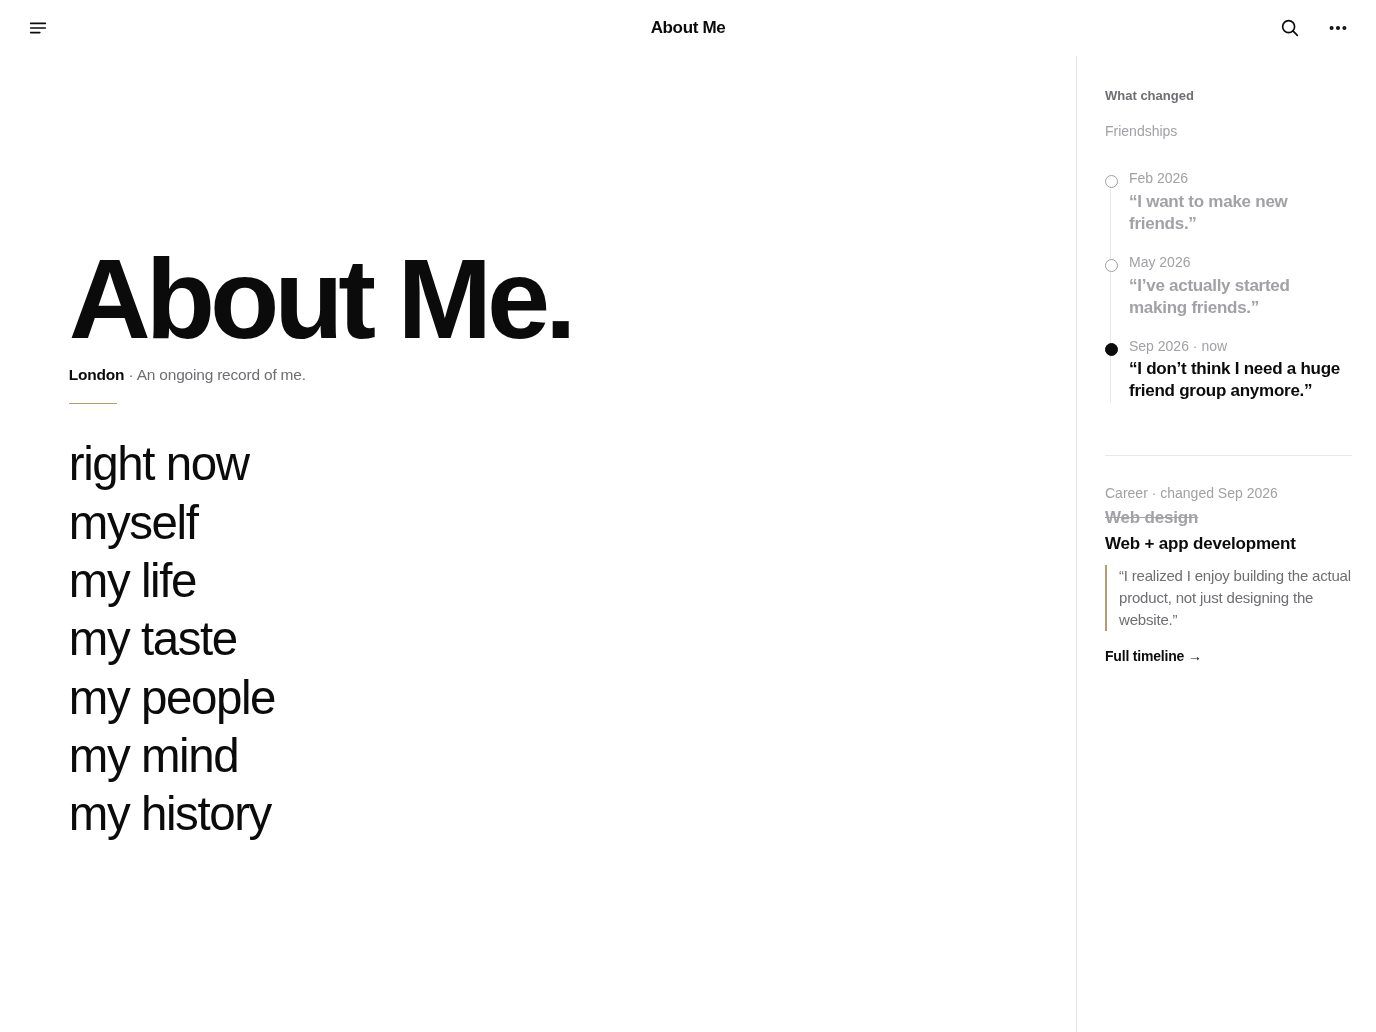
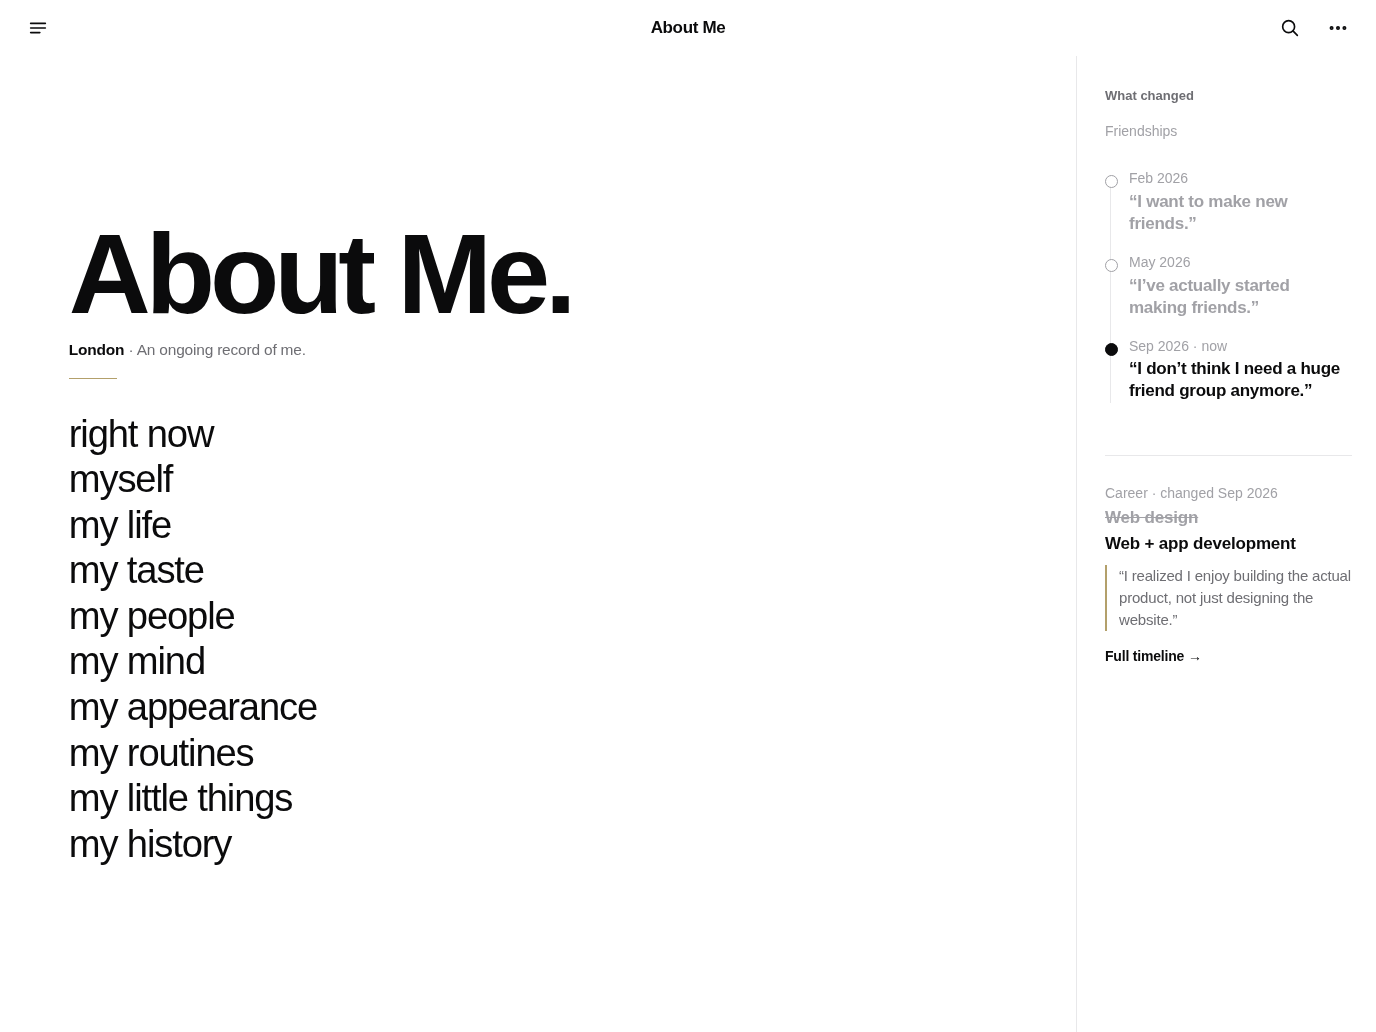
Add My Appearance, My Routines and My Little Things chapters
Each gets its own one-screen chapter page and a line in the home list,
which is set slightly smaller so ten items still fit on every iPad.

Claude-Session: https://claude.ai/code/session_01B2jaZ1SNYJtGLSRg6z58ic

Changed region(s): [[0.0312, 0.4031, 0.2188, 0.8372], [0.0312, 0.2171, 0.4375, 0.3721]]

diff --git a/index.html b/index.html
@@ -133,9 +133,9 @@ p { margin: 0; }
 /* Home statement and list sit on the left, like a phone launcher; What changed stays as it is */
 .home-page .statement { justify-items: start; text-align: left; }
 .home-page .launcher { justify-self: start; }
-.launcher ul { margin: 0; padding: 0; list-style: none; display: grid; gap: clamp(2px, .5vh, 8px); }
+.launcher ul { margin: 0; padding: 0; list-style: none; display: grid; gap: clamp(0px, .3vh, 6px); }
 .launcher a {
-  display: inline-block; font: 500 clamp(34px, 4.6vh, 64px)/1.12 var(--sans); letter-spacing: -.03em;
+  display: inline-block; font: 500 clamp(28px, 3.7vh, 56px)/1.1 var(--sans); letter-spacing: -.03em;
   color: var(--ink); text-transform: lowercase; transition: color .15s, transform .2s;
 }
 .launcher a:hover { color: var(--muted); transform: translateX(4px); }
@@ -291,6 +291,15 @@ const chapters = [
   { id: "mind", title: "My Mind", tagline: "What I’m working out", entries: 36, changes: 2,
     parts: [["Thoughts", null, null], ["Feelings", null, null], ["Ideas", null, "An app that remembers who you used to be."], ["Questions", null, null],
       ["Realizations", null, "I like building the thing more than describing it."], ["Things I’m figuring out", null, null]] },
+  { id: "appearance", title: "My Appearance", tagline: "How I show up", entries: 12, changes: 1,
+    parts: [["Style", "How I like to look.", "Simple, dark, a little sharp."], ["Clothes I reach for", null, null], ["Colors I wear", null, null],
+      ["Hair", null, null], ["Skin", null, null], ["How I want to look", null, null], ["Past looks", "How I used to look.", null]] },
+  { id: "routines", title: "My Routines", tagline: "How my days go", entries: 9, changes: 1,
+    parts: [["Mornings", null, "Coffee first, phone second."], ["Evenings", null, null], ["Weekdays", null, null], ["Weekends", null, null],
+      ["Work", null, null], ["Exercise", null, null], ["Sleep", null, null], ["Habits I’m building", null, null], ["Habits I’m breaking", null, null]] },
+  { id: "little", title: "My Little Things", tagline: "The small stuff that’s me", entries: 14, changes: 0,
+    parts: [["Small joys", null, "The first quiet hour of the day."], ["Favorite words", null, null], ["Pet peeves", null, null],
+      ["Comfort things", null, null], ["Quirks", null, null], ["Things I collect", null, null], ["Little rituals", null, null]] },
   { id: "history", title: "My History", tagline: "How I got here", entries: 13, changes: 0,
     parts: [["Decisions", "What I decided, and why.", "Start building apps. September 2026."], ["What Changed", "Before and after.", null],
       ["Timeline", null, null], ["Old Thoughts", null, null], ["Memories", null, null], ["Past Versions of Me", null, null]] },

diff --git a/DESIGN.md b/DESIGN.md
@@ -29,7 +29,7 @@ Note: a 1200pt canvas is wider than any real iPad (13" iPad Pro is 1032 × 1376p
 
 1. **Top bar** (56pt): Menu · About Me · Search
 2. **Statement**: **About / Me.** on two lines, centered, 800 weight, then **London** · An ongoing record of me., then a short gold hairline.
-3. **Contents list**: a plain list, like a minimal phone launcher. One lowercase word per line, 500 weight, ~34–64pt, left-aligned on the left edge of the page under the left-aligned statement, with no icons, boxes or counts: right now · myself · my life · my taste · my people · my mind · my history. Each word opens its page.
+3. **Contents list**: a plain list, like a minimal phone launcher. One lowercase word per line, 500 weight, ~28–56pt, left-aligned on the left edge of the page under the left-aligned statement, with no icons, boxes or counts: right now · myself · my life · my taste · my people · my mind · my appearance · my routines · my little things · my history. Each word opens its page.
 4. **What changed.**: two lines. Friendships: first version → latest version (3 versions). Career: ~~Web design~~ → Web + app development.
 
 ## 3. Landscape home: "the archive" (one screen)
@@ -54,7 +54,7 @@ They use the same composition as home, so every page feels like the same book:
 2. **Parts**: a 2-column grid (up to 10 parts, 5 rows). Each part has its name in bold and one line under it: the latest entry in black, or its description in grey, or "Nothing yet. Tap to write the first entry." in light grey. Clamped to 2 lines.
 3. **What changed.**: the chapter's evolution lines (e.g. Career: ~~Web design~~ → Web + app development) and "This chapter has evolved N times", with **View history →**. In wide landscape this moves to the right panel with the chapter's stats.
 
-Verified with no overflow on all 6 chapters and home at 1200×1600, 1600×1200, iPad mini, 11" and 13" in both orientations, and a 1000×744 split-view window.
+Verified with no overflow on all 9 chapters, Right Now and home at 1200×1600, 1600×1200, iPad mini, 11" and 13" in both orientations, and a 1000×744 split-view window.
 
 ## 4. Typography
 

diff --git a/README.md b/README.md
@@ -31,4 +31,4 @@ npm run screens   # same check, and refreshes screens/
 
 ## Structure
 
-Home · Right Now · Myself · My Life · My Taste · My People · My Mind · My History, plus Decision History, What Changed and Timeline (next up).
+Home · Right Now · Myself · My Life · My Taste · My People · My Mind · My Appearance · My Routines · My Little Things · My History, plus Decision History, What Changed and Timeline (next up).
